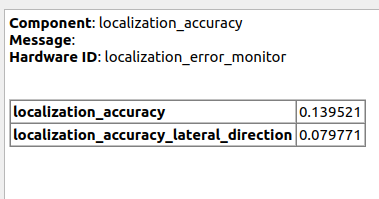
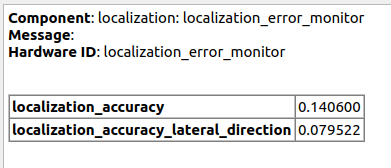
rename diag componet

Changed region(s): [[0.0, 0.0, 1.0, 1.0]]

diff --git a/localization/localization_error_monitor/src/node.cpp b/localization/localization_error_monitor/src/node.cpp
@@ -122,7 +122,7 @@ void LocalizationErrorMonitor::onOdom(nav_msgs::msg::Odometry::ConstSharedPtr in
 
   diagnostic_msgs::msg::DiagnosticStatus diag_merged_status;
   diag_merged_status = mergeDiagnosticStatus(diag_status_array);
-  diag_merged_status.name = "localization_accuracy";
+  diag_merged_status.name = "localization: localization_error_monitor";
   diag_merged_status.hardware_id = "localization_error_monitor";
 
   diagnostic_msgs::msg::DiagnosticArray diag_msg;
